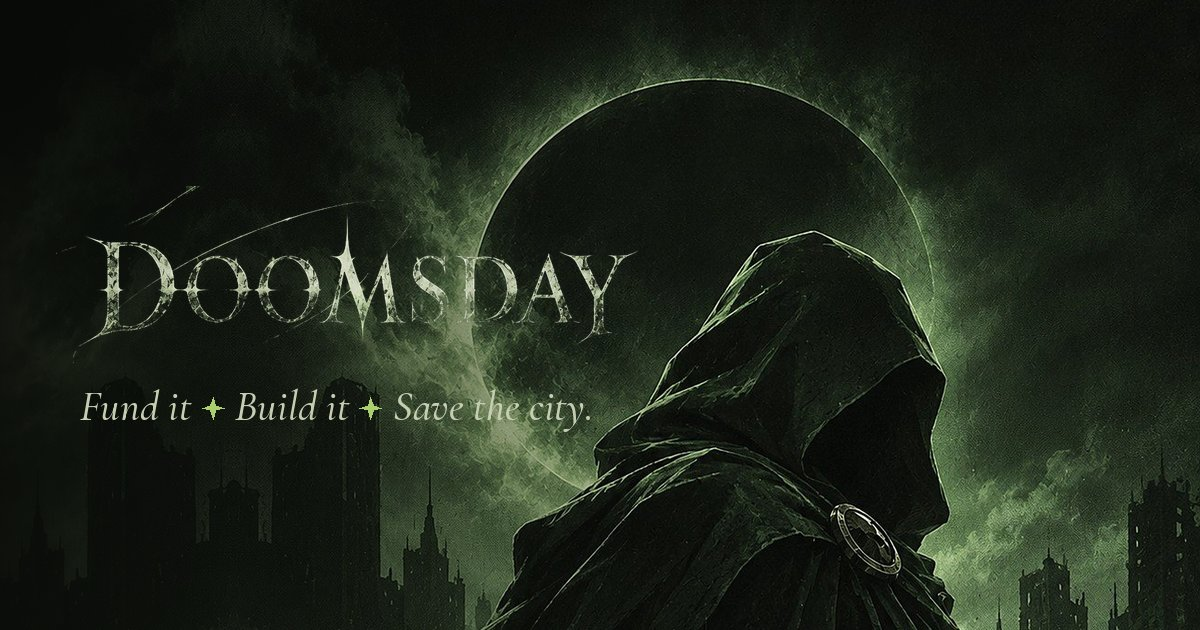
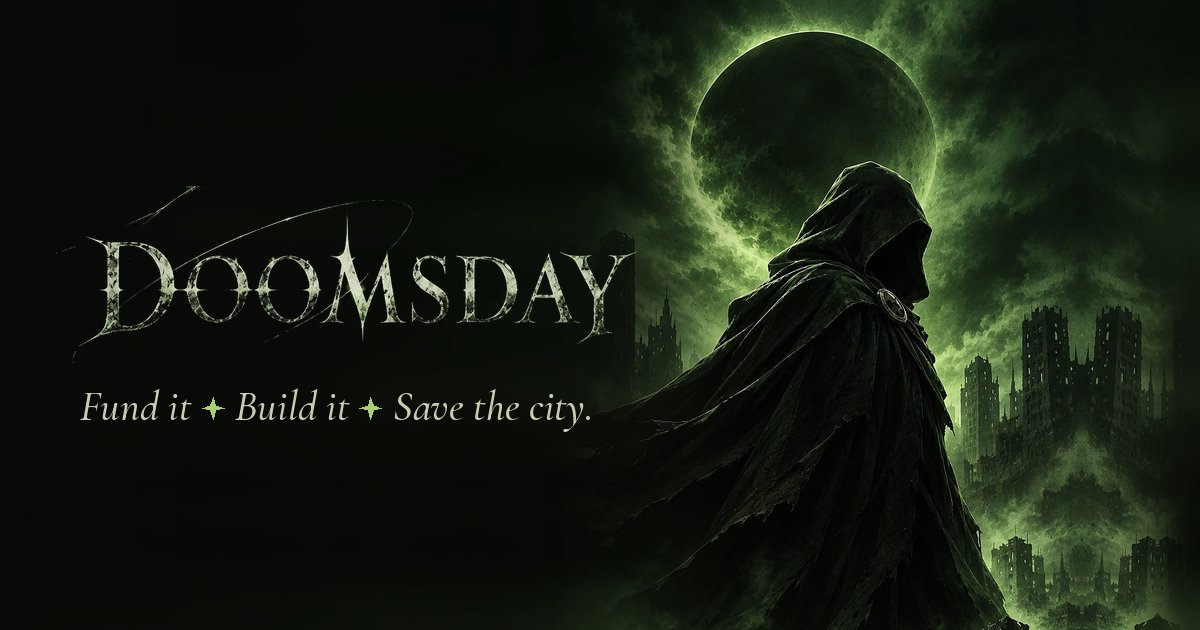
Hero: the club's waist-length Professor Kalyug art
The hero now uses the club's character art (kalyug-character.webp): the hooded
figure from hood to waist before the eclipse, with ruined towers either side.

- Laptops and desktops get it widened to 2.2:1 (hero-desktop.jpg): the figure set
  right of centre, its left edge dissolving into dark fog coloured from the picture
  itself for the title, and the towers on its right carried to the edge.
- Phones and tablets get the portrait as it is (hero.jpg), framed on the hood and
  eclipse; taller phones show the cloak too.
- The browser downloads only the one it shows (a picture element).
- The link preview is rebuilt from the new art.
- scripts/art/hero_art.py replaces hero_from_poster.py.

Register button and clock still fit the first screen at 360x560, 375x548,
390x664, 412x780, 820x1100, 1024x668, 1366x657, 1440x789 and 1920x969.

Claude-Session: https://claude.ai/code/session_01EFY1MnNAJYYbQtriE75PiZ

diff --git a/components/art/Poster.tsx b/components/art/Poster.tsx
@@ -1,5 +1,6 @@
-import Image from 'next/image';
+import Image, { getImageProps } from 'next/image';
 import hero from '@/assets/art/hero.jpg';
+import heroDesktop from '@/assets/art/hero-desktop.jpg';
 import kalyug from '@/assets/art/kalyug.jpg';
 import kalyugHood from '@/assets/art/kalyug-hood.jpg';
 import wordmark from '@/assets/art/wordmark.webp';
@@ -7,14 +8,28 @@ import ambient from '@/assets/art/ambient.jpg';
 import { EVENT } from '@/lib/config';
 
 /**
- * Pieces cut from the event poster (assets/art/poster.jpg). The poster itself is not shown on
- * the site; its hooded figure (Professor Kalyug), eclipse, skyline and DOOMSDAY lettering are.
- * None of these pieces carry the poster's date, venue or club line.
+ * The event's key art. The poster itself (assets/art/poster.jpg) is not shown on the site; its
+ * DOOMSDAY lettering, a close-up of the hood and a blurred haze are cut from it, and the hero uses
+ * the club's character art of Professor Kalyug. None of these carry the poster's date, venue or
+ * club line.
  */
 
-/** The landing hero: the poster's figure, eclipse and skyline, widened to 2.2 : 1. */
+/**
+ * The landing hero: Professor Kalyug from the hood to the waist, before the eclipse (the club's
+ * character art, see scripts/art/hero_art.py). Phones and tablets get the portrait; screens
+ * 1024 px and wider get it widened to 2.2 : 1 with dark fog on the left for the title. The
+ * browser downloads only the one it shows.
+ */
 export function HeroArt({ className = '' }: { className?: string }) {
-  return <Image src={hero} alt="" fill sizes="100vw" preload placeholder="blur" className={className} aria-hidden="true" />;
+  const common = { alt: '', fill: true, sizes: '100vw', fetchPriority: 'high', loading: 'eager' } as const;
+  const { props: { srcSet: desktop } } = getImageProps({ ...common, src: heroDesktop });
+  const { props: mobile } = getImageProps({ ...common, src: hero, placeholder: 'blur' });
+  return (
+    <picture>
+      <source media="(min-width: 1024px)" srcSet={desktop} sizes="100vw" />
+      <img {...mobile} className={className} aria-hidden="true" />
+    </picture>
+  );
 }
 
 /** A close-up of Professor Kalyug's hood, for the synopsis dossier photo. */

diff --git a/app/(site)/page.tsx b/app/(site)/page.tsx
@@ -41,11 +41,11 @@ export default async function Landing() {
         </div>
 
         <div className="flex min-h-[calc(100svh-6.25rem)] flex-col lg:block lg:min-h-0">
-          {/* the poster's hooded figure, eclipse and skyline, widened for the screen */}
+          {/* Professor Kalyug before the eclipse: the portrait on phones, widened on laptops */}
           <div className="relative -z-20 min-h-[13rem] flex-1 overflow-hidden lg:absolute lg:inset-0" aria-hidden="true">
-            <HeroArt className="hero-drift object-cover object-[84%_center] md:object-[78%_center] lg:object-[68%_center]" />
+            <HeroArt className="hero-drift object-cover object-[center_22%] lg:object-[72%_25%]" />
             <div className="absolute inset-0 bg-[linear-gradient(180deg,rgb(8_10_7/0.3),transparent_14%,transparent_62%,var(--color-abyss))] lg:bg-[linear-gradient(90deg,var(--color-abyss)_0%,rgb(8_10_7/0.88)_30%,rgb(8_10_7/0.35)_58%,transparent_78%)]" />
-            <div className="absolute inset-x-0 bottom-0 hidden h-48 bg-gradient-to-b from-transparent to-abyss lg:block" />
+            <div className="absolute inset-x-0 bottom-0 hidden h-28 bg-gradient-to-b from-transparent to-abyss lg:block" />
           </div>
 
           <div className="relative mx-auto w-full max-w-7xl px-[var(--gutter)] pb-5 sm:pb-8 lg:flex lg:min-h-[min(54rem,calc(100svh-6.25rem))] lg:items-center lg:py-20 lg:short:py-8">

diff --git a/scripts/art/hero_art.py b/scripts/art/hero_art.py
@@ -1,0 +1,89 @@
+"""
+The landing hero art, from the club's character art of Professor Kalyug
+(assets/art/kalyug-character.webp: hood to waist, the eclipse behind, ruined towers either side).
+
+    python3 scripts/art/hero_art.py assets/art/kalyug-character.webp assets/art
+
+Writes:
+  hero.jpg          phones and tablets: the portrait as it is (2 : 3), with the site's grain.
+                    The page frames it on the hood and eclipse (object-position).
+  hero-desktop.jpg  laptops and desktops, 2.2 : 1: the portrait from the eclipse down to the
+                    waist, set right of centre so the title has the left side. Its left edge
+                    dissolves into a dark fog coloured from the picture itself, and the towers on
+                    its right carry on to the edge, so there is no second figure or seam.
+"""
+import os
+import sys
+
+import numpy as np
+from PIL import Image, ImageChops, ImageFilter
+
+ECLIPSE_X = 510          # the eclipse's centre in the source
+BAND = (150, 1350)       # source rows for the desktop art: eclipse top to the waist
+FIGURE_AT = 0.72         # where the eclipse sits across the desktop canvas
+
+
+def grain(im: Image.Image, amount: float = 0.16) -> Image.Image:
+    noise = Image.effect_noise(im.size, 28).convert('RGB')
+    return ImageChops.blend(im, ImageChops.overlay(im, noise), amount)
+
+
+def feather(width: int, height: int, left: int, right: int) -> Image.Image:
+    """An alpha mask: 0 → 255 over `left` px at the left edge, 255 → 0 over `right` px at the right."""
+    x = np.arange(width, dtype=np.float32)
+    a = np.ones(width, np.float32)
+    if left:
+        a = np.minimum(a, np.clip(x / left, 0, 1))
+    if right:
+        a = np.minimum(a, np.clip((width - 1 - x) / right, 0, 1))
+    a = a * a * (3 - 2 * a)  # smoothstep, so the fade has no visible edge
+    return Image.fromarray(np.tile((a * 255).astype(np.uint8), (height, 1)))
+
+
+def desktop(src: Image.Image) -> Image.Image:
+    band = src.crop((0, BAND[0], src.width, BAND[1]))
+    H = band.height
+    W = round(H * 2.2)
+    x0 = round(FIGURE_AT * W - ECLIPSE_X)
+    rng = np.random.default_rng(11)
+
+    # The fog: each row takes the colour of the picture's own left edge at that height (glow up
+    # high, fog and dark ground below), softly mottled, and sinks into darkness toward the left
+    # where the title sits.
+    edge = np.asarray(band.crop((0, 0, 200, H))).astype(np.float32).mean(axis=1)  # (H, 3)
+    edge = np.asarray(Image.fromarray(np.clip(edge[:, None, :], 0, 255).astype(np.uint8)).resize((1, H)).filter(ImageFilter.GaussianBlur(30))).astype(np.float32)[:, 0, :]
+    mottle = rng.random((6, 22)).astype(np.float32)
+    mottle = np.asarray(Image.fromarray((mottle * 255).astype(np.uint8)).resize((W, H), Image.BICUBIC).filter(ImageFilter.GaussianBlur(60))).astype(np.float32) / 255
+    ramp = np.linspace(0.18, 0.62, W, dtype=np.float32) ** 1.3  # dark at the far left
+    fog = edge[:, None, :] * (ramp[None, :, None] * (0.8 + 0.4 * mottle[..., None]))
+    canvas = Image.fromarray(np.clip(fog, 0, 255).astype(np.uint8))
+
+    # Right of the figure: the towers carry on (the picture's right edge, mirrored), into fog.
+    right_w = W - (x0 + band.width)
+    if right_w > 0:
+        strip = band.crop((band.width - 144, 0, band.width, H)).transpose(Image.FLIP_LEFT_RIGHT)
+        ext = Image.new('RGB', (right_w, H))
+        x, flip = 0, False
+        while x < right_w:
+            ext.paste(strip.transpose(Image.FLIP_LEFT_RIGHT) if flip else strip, (x, 0))
+            x += strip.width
+            flip = not flip
+        fade = feather(right_w, H, 0, right_w)  # 255 at the figure's side, fading out to the edge
+        canvas.paste(ext, (x0 + band.width, 0), fade)
+
+    # The figure: its left edge (fog, tattered cloak) dissolves slowly into the fog.
+    canvas.paste(band, (x0, 0), feather(band.width, H, left=420, right=0))
+    canvas = canvas.filter(ImageFilter.UnsharpMask(radius=1.5, percent=40, threshold=3))
+    return grain(canvas)
+
+
+def main():
+    src_path, outdir = sys.argv[1:3]
+    src = Image.open(src_path).convert('RGB')
+    grain(src, 0.1).save(os.path.join(outdir, 'hero.jpg'), quality=82, optimize=True, progressive=True)
+    desktop(src).save(os.path.join(outdir, 'hero-desktop.jpg'), quality=82, optimize=True, progressive=True)
+    print('hero.jpg, hero-desktop.jpg')
+
+
+if __name__ == '__main__':
+    main()

diff --git a/scripts/art/og_image.py b/scripts/art/og_image.py
@@ -1,6 +1,6 @@
 """
-The link preview (WhatsApp, Instagram DMs): the hero art with the DOOMSDAY wordmark and the
-tagline. No date or venue, so it never goes stale.
+The link preview (WhatsApp, Instagram DMs): the desktop hero art (Professor Kalyug) with the
+DOOMSDAY wordmark and the tagline. No date or venue, so it never goes stale.
 
     python3 scripts/art/og_image.py assets/art app/opengraph-image.jpg CormorantGaramond-Italic[wght].ttf
 """
@@ -9,7 +9,7 @@ from PIL import Image, ImageDraw, ImageFont
 
 art, out, font_path = sys.argv[1:4]
 W, H = 1200, 630
-hero = Image.open(os.path.join(art, 'hero.jpg')).convert('RGB')
+hero = Image.open(os.path.join(art, 'hero-desktop.jpg')).convert('RGB')
 scale = H / hero.height
 hero = hero.resize((round(hero.width * scale), H), Image.LANCZOS)
 x0 = hero.width - W  # keep the figure on the right

diff --git a/scripts/art/README.md b/scripts/art/README.md
@@ -5,15 +5,17 @@ real people (spec, tone rules).
 
 | File (`assets/art/`) | What it is | Made by |
 |---|---|---|
-| `poster.jpg` | The event poster: the **source** for the art below. It is not shown on the site (its details are still being finalised) | Supplied by the club; `fix_poster.py` corrects "PRESENCES" → "PRESENTS" |
-| `hero.jpg` | The landing hero: the poster's hooded figure, eclipse and skyline widened to 2.2 : 1, with no lettering, date or venue | `hero_from_poster.py` |
+| `poster.jpg` | The event poster: the source of the wordmark, hood close-up and haze below. It is not shown on the site (its details are still being finalised) | Supplied by the club; `fix_poster.py` corrects "PRESENCES" → "PRESENTS" |
+| `kalyug-character.webp` | The club's character art: Professor Kalyug from hood to waist before the eclipse (no lettering). Source for the hero | Supplied by the club |
+| `hero.jpg` | The landing hero on phones and tablets: the character art as it is (2 : 3) | `hero_art.py` |
+| `hero-desktop.jpg` | The landing hero on laptops and desktops: the character art from eclipse to waist, widened to 2.2 : 1 with dark fog on the left for the title | `hero_art.py` |
 | `kalyug.jpg` | Professor Kalyug: the hooded figure and eclipse, cropped from the poster | `derive_from_poster.py` |
 | `kalyug-hood.jpg` | A close-up of the hood (the synopsis "dossier photo") | `derive_from_poster.py` |
 | `wordmark.webp` | The DOOMSDAY lettering, keyed onto transparency | `derive_from_poster.py` |
 | `ambient.jpg` | The poster blurred into a green haze (page banners, projector and crew sign-in backdrops) | `derive_from_poster.py` |
 | `sky-*.jpg` | Painted storm skies with the green eclipse | `sky.py` |
 | `scene-*.jpg` | The seven scenes shown on the site (rounds, founders, leaderboard) | `render-scenes.cjs`, or `generate-ai-art.py` |
-| `app/opengraph-image.jpg` | The link preview (WhatsApp, Instagram DMs): the hero art, wordmark and tagline (no date or venue) | `og_image.py` |
+| `app/opengraph-image.jpg` | The link preview (WhatsApp, Instagram DMs): the desktop hero art, wordmark and tagline (no date or venue) | `og_image.py` |
 
 ## Scenes
 

diff --git a/docs/design-refs/README.md b/docs/design-refs/README.md
@@ -4,8 +4,9 @@
 Professor Kalyug, before a black eclipse with a green corona, over a ruined city, with the
 DOOMSDAY title in cracked silver-green capitals. The site's colours, type and art all come from
 it, but the poster itself is not shown: its details (date, venue, club line) are still being
-finalised. The hero is composed from its pieces instead: the figure, eclipse and skyline widened
-to the screen (`hero.jpg`) and the DOOMSDAY lettering as the title.
+finalised. The hero uses the club's character art of Professor Kalyug instead
+(`kalyug-character.webp`, hood to waist before the eclipse) with the poster's DOOMSDAY lettering
+as the title.
 
 The other references (Pinterest boards shared in chat, not committed) set the layout language.
 Several are fan art or film/game key art; the website must never use their images or any

diff --git a/docs/decisions.md b/docs/decisions.md
@@ -244,4 +244,6 @@ frames and viewfinder corners from the Pinterest references. Details in
 `docs/design-refs/README.md` and `scripts/art/README.md`. The spec's comic-book styling is not
 used. All art is original or cut from the club's own poster; no Marvel/DC imagery. The poster
 itself is not shown on the site (its date, venue and club line are still being finalised); the
-hero is built from its figure, eclipse, skyline and lettering instead.
+hero uses the club's character art of Professor Kalyug (hood to waist) and the poster's
+lettering instead. The hero fits the first screen on phones and laptops: art, wordmark, clock
+and the register button, with no scrolling.
